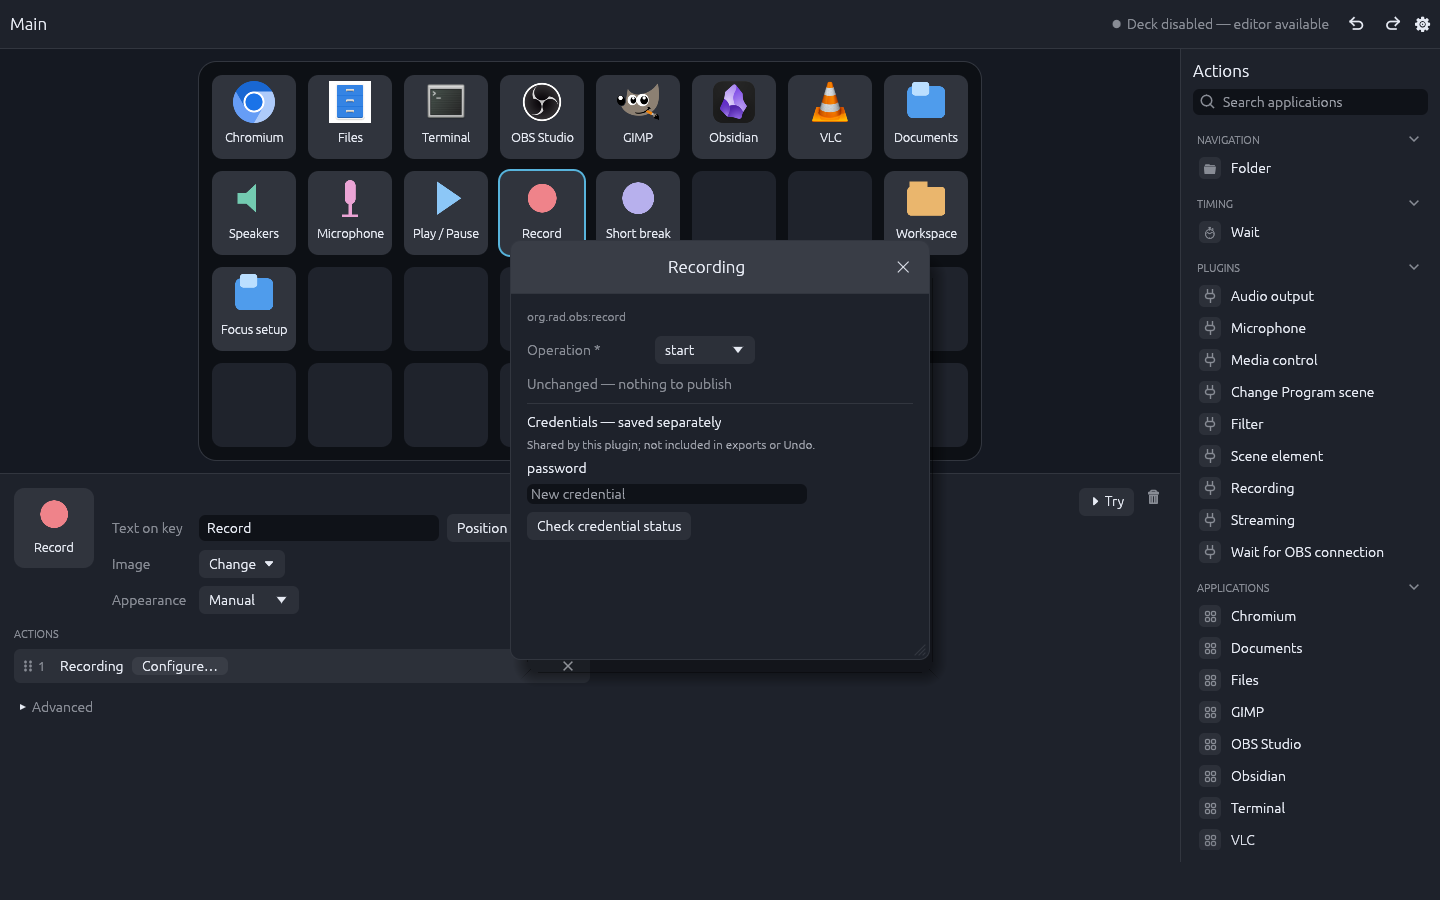
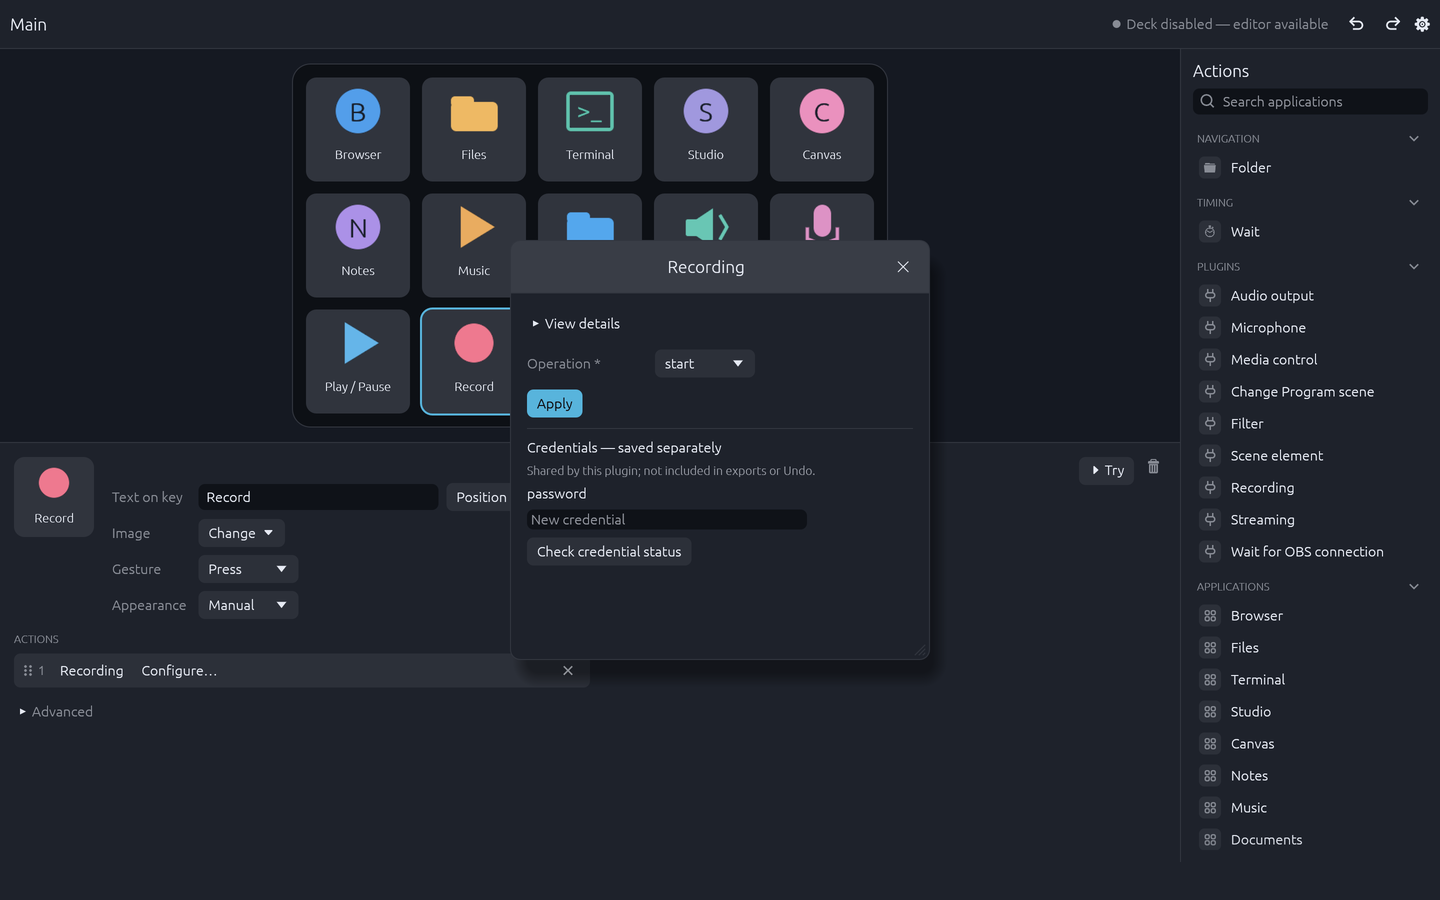
docs: refresh editor screenshots and remove obsolete skill

diff --git a/docs/roadmap.md b/docs/roadmap.md
@@ -290,7 +290,7 @@ Cambios puntuales pedidos por el usuario tras probar el editor (2026-10-21), ant
 la fase 4. Lo visual se valida con el usuario: cada pantalla se le muestra y se ajusta
 con lo que diga. E1–E3 son independientes de E4–E5.
 
-### E1 · Ícono de RAD — hecho (commit `feat: add shared RAD desktop icon`)
+### E1 · Ícono de RAD — hecho (b80d235)
 
 - **Entrega:** `packaging/rad.png` es la K provisional original de GitHub y la única
   fuente de imagen; se reemplaza ese PNG y se recompila para cambiarla. La ventana
@@ -364,16 +364,19 @@ con lo que diga. E1–E3 son independientes de E4–E5.
 - **Pruebas:** con 8 y con 32 plugins sintéticos todos se alcanzan; instalar un
   oficial envía su origen; la barra avanza de 0 a 100 con un downloader falso.
 
-### E6 · Limpieza
+### E6 · Limpieza — hecha (commit `docs: refresh editor screenshots and remove obsolete skill`)
 
 - **Local — hecho (2026-10-21):** 61 restos de las fases 1 y 2 en `target/`
   (registros, pruebas y builds de publicación; 1,3 GB) a la papelera. Se conservan la
   caché de compilación, `target/plugins`, `target/conformance` y `target/tmp`.
-- **Repo:** quitar el skill `completar-contrato` (`.agentic/skills/completar-contrato.md`,
-  `.claude/commands/completar-contrato.md` y su mención en `.agentic/README.md`):
-  completa los `[PENDIENTE]` de AGENTS.md y no queda ninguno. Rehacer las capturas
-  de `docs/images/` después de E4 y E5. Lo demás versionado está en uso: fixtures
-  golden, conformidades y avisos de licencias de los plugins.
+- **Repo — hecho:** retirados el skill `completar-contrato`, su adaptador Claude y
+  sus menciones en `.agentic/README.md`. Lo demás versionado se conserva.
+- **Capturas — hechas:** las cuatro imágenes de `docs/images/` muestran el editor
+  vigente con datos demo, gestos de fase 3 y ajustes actuales; el encargo de E6 las
+  adelanta sin ejecutar E4 ni E5, que siguen pendientes. Render real de egui sin
+  ventana, hardware ni servicios personales; generador temporal retirado.
+- **Validación focal:** generación e inspección visual de las cuatro capturas
+  (1440 × 900), referencias de ambos README y respaldo Git de los archivos retirados.
 
 ## Fase UX · En paralelo
 

diff --git a/.agentic/README.md b/.agentic/README.md
@@ -8,7 +8,6 @@ herramientas lean lo mismo.
 .agentic/
   golden-rules.md                # reglas siempre vigentes
   skills/orquestar.md            # el procedimiento de orquestación
-  skills/completar-contrato.md    # llenar los [PENDIENTE] de AGENTS.md
   skills/tdd.md                  # ciclo rojo–verde–refactor
   skills/code-review.md          # estándares y especificación
   skills/usar-engram.md          # contexto entre sesiones, si está disponible
@@ -20,19 +19,6 @@ herramientas lean lo mismo.
 
 Para retirar la capa: borrar `.agentic/`, `.claude/`, `.codex/`, y el bloque
 `AGENTIC_TEMPLATE` de `AGENTS.md` y `CLAUDE.md`.
-
-## Primer paso: completar el contrato
-
-`AGENTS.md` llega con campos `[PENDIENTE]`. Para llenarlos:
-
-- **Claude** → `/completar-contrato`
-- **Codex** → `Leé .agentic/skills/completar-contrato.md y aplicalo`
-
-Recorre el repositorio, propone lo que puede inferir con su evidencia, y pregunta
-solo lo que no. Lo que no se confirma queda `[PENDIENTE]`: un hueco declarado se
-ve, un valor inventado no.
-
-Sirve igual más adelante, cada vez que agregues un campo nuevo al contrato.
 
 ## Procedimientos incluidos
 
